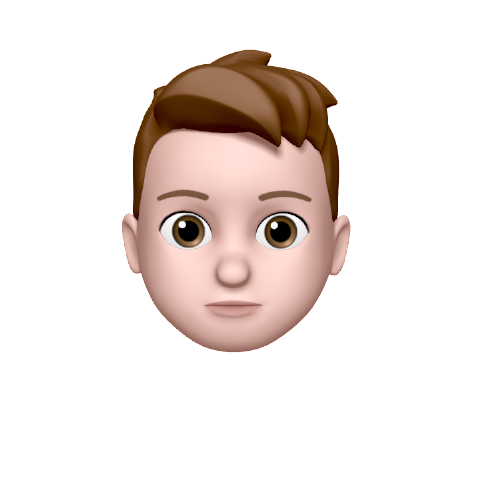
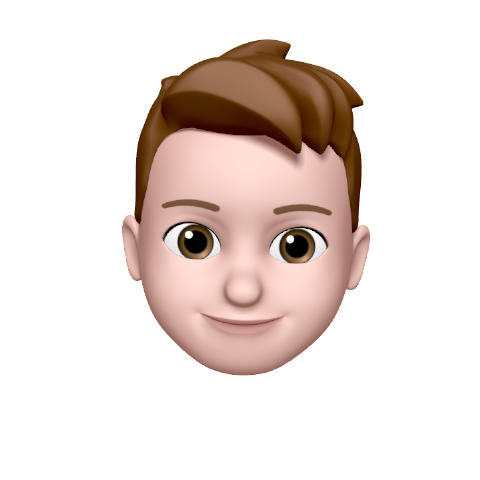
similing about me and front/backend languages formatting

Changed region(s): [[0.25, 0.0625, 0.7812, 0.7812], [0.25, 0.5312, 0.3125, 0.625]]

diff --git a/index.html b/index.html
@@ -96,36 +96,42 @@
                         <img src="./assets/checkmark.png" alt="experience icon" class="icon">
                         <div>
                             <h3>HTML</h3>
+                            <p>Experienced</p>
                         </div>
                     </article>
                     <article>
                         <img src="./assets/checkmark.png" alt="experience icon" class="icon">
                         <div>
                             <h3>CSS</h3>
+                            <p>Experienced</p>
                         </div>
                     </article>
                     <article>
                         <img src="./assets/checkmark.png" alt="experience icon" class="icon">
                         <div>
                             <h3>JavaScript</h3>
+                            <p>Experienced</p>
                         </div>
                         </article>
                         <article>
                             <img src="./assets/checkmark.png" alt="experience icon" class="icon">
                             <div>
                                 <h3>React</h3>
+                                <p>Experienced</p>
                             </div>
                         </article>
                         <article>
                             <img src="./assets/checkmark.png" alt="experience icon" class="icon">
                             <div>
                                 <h3>Vue</h3>
+                                <p>Experienced</p>
                             </div>
                         </article>
                         <article>
                             <img src="./assets/checkmark.png" alt="experience icon" class="icon">
                             <div>
                                 <h3>Angular</h3>
+                                <p>Experienced</p>
                             </div>
                         </article>
                         </div>
@@ -137,36 +143,42 @@
                     <img src="./assets/checkmark.png" alt="experience icon" class="icon">
                     <div>
                         <h3>PostgreSQL</h3>
+                        <p>Experienced</p>
                     </div>
                 </article>
                 <article>
                     <img src="./assets/checkmark.png" alt="experience icon" class="icon">
                     <div>
                         <h3>Node JS</h3>
+                        <p>Experienced</p>
                     </div>
                 </article>
                 <article>
                     <img src="./assets/checkmark.png" alt="experience icon" class="icon">
                     <div>
                         <h3>MongoDB</h3>
+                        <p>Experienced</p>
                     </div>
                     </article>
                     <article>
                         <img src="./assets/checkmark.png" alt="experience icon" class="icon">
                         <div>
                             <h3>Git</h3>
+                            <p>Experienced</p>
                         </div>
                     </article>
                     <article>
                         <img src="./assets/checkmark.png" alt="experience icon" class="icon">
                         <div>
                             <h3>Python</h3>
+                            <p>Experienced</p>
                         </div>
                     </article>
                     <article>
                         <img src="./assets/checkmark.png" alt="experience icon" class="icon">
                         <div>
                             <h3>C/C++</h3>
+                            <p>Experienced</p>
                         </div>
                     </article>
                 </div>
